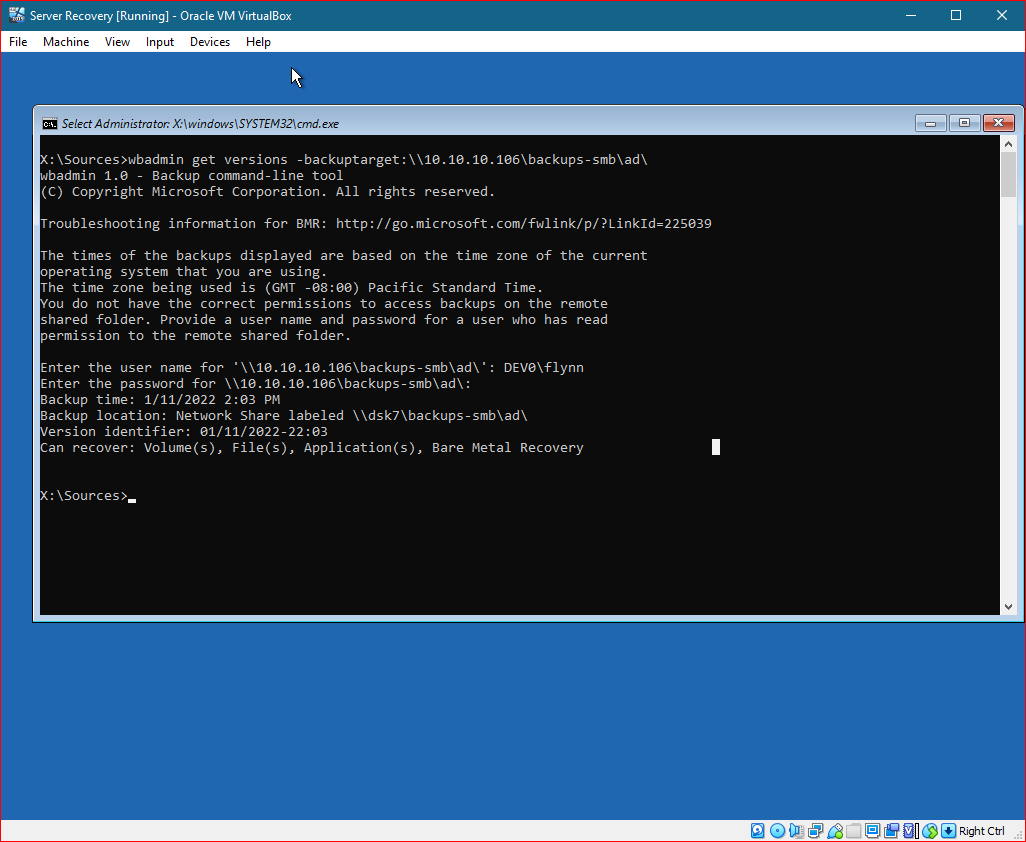
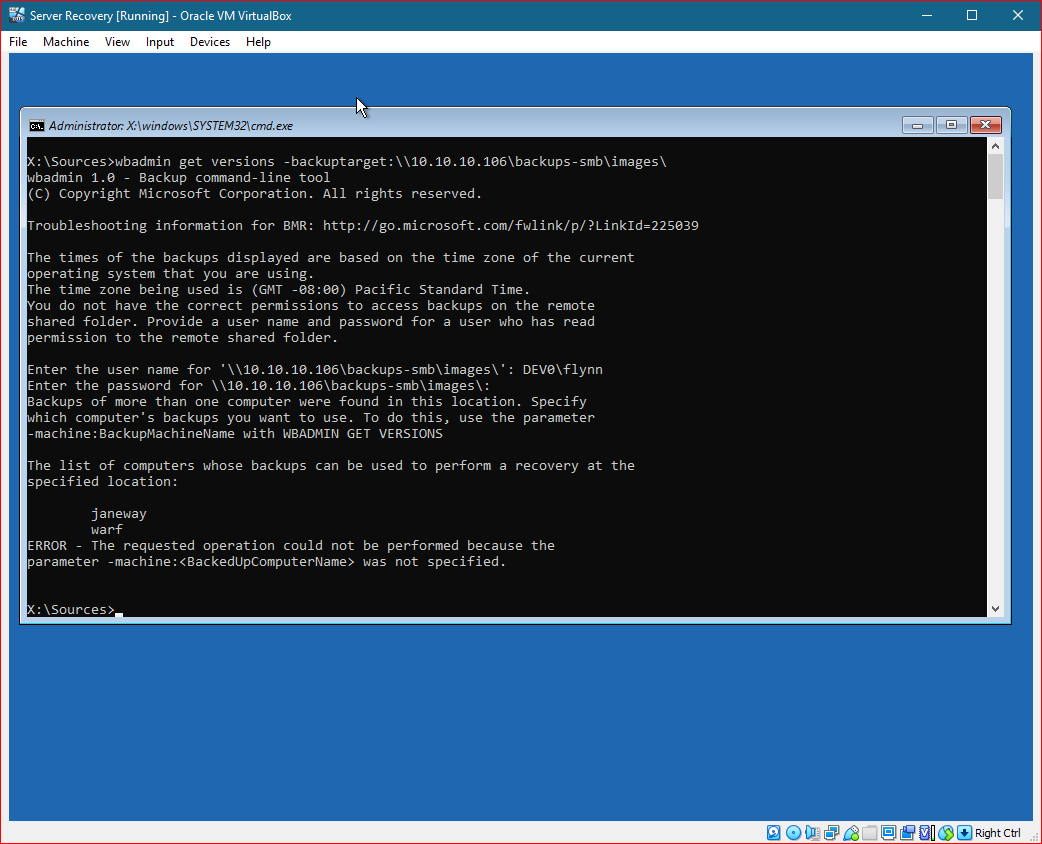
2022-01-13 15:26:44 Changed: 0
Affected files:

Changed region(s): [[0.0, 0.0, 1.0, 1.0], [0.6862, 0.5249, 0.7173, 0.5558]]

diff --git a/_posts/BLOCK-ad-backups-powershell.md b/_posts/BLOCK-ad-backups-powershell.md
@@ -28,34 +28,44 @@ https://gist.github.com/PipeItToDevNull/99e6ccccc772684b66175bc6a987ee7a
 
 #### Using GUI
 1. Boot up your install media and choose "Next"
+
 ![ServerBackupRecovery0.PNG|400](../assets/images/windowsImageRecovery/ServerBackupRecovery0.PNG)
 
 2. Do not choose "Install now", choose "Repair your computer" in the lower left
+
 ![ServerBackupRecovery1.PNG|400](../assets/images/windowsImageRecovery/ServerBackupRecovery1.PNG)
 
 3. Choose "Troubleshoot" then "System Image Recovery"
+
 ![ServerBackupRecovery2.PNG|400](../assets/images/windowsImageRecovery/ServerBackupRecovery2.PNG)
 ![ServerBackupRecovery3.PNG|400](../assets/images/windowsImageRecovery/ServerBackupRecovery3.PNG)
 
 4. On the next screen you will get a notice about having now backups, hit "Cancel" then "Next"
+ 
+> 📝 If you do not get a notice then you likely have backups on a mounted disk. You can attempt to restore them and skip the rest of this document.
+
 ![ServerBackupRecovery4.PNG|400](../assets/images/windowsImageRecovery/ServerBackupRecovery4.PNG)
 ![ServerBackupRecovery5.PNG|400](../assets/images/windowsImageRecovery/ServerBackupRecovery5.PNG)
 
-> 📝 If you do not get a notice then you likely have backups on a mounted disk. You can attempt to restore them and skip the rest of this.
+> 📝 If you do not get a notice then you likely have backups on a mounted disk. You can attempt to restore them and skip the rest of this
 
 5. Assuming we got the prompt in step 4 then we will see a grid with no entries, choose "Advanced"
+
 ![ServerBackupRecovery6.PNG|400](../assets/images/windowsImageRecovery/ServerBackupRecovery6.PNG)
+
 6. Choose "Search for a system image on the network" and hit "yes" to initialize the network.
+
 ![ServerBackupRecovery7.PNG|400](../assets/images/windowsImageRecovery/ServerBackupRecovery7.PNG)
 ![ServerBackupRecovery8.PNG|400](../assets/images/windowsImageRecovery/ServerBackupRecovery8.PNG)
 
 7. You should see a prompt for a network path, the installer has no DNS so we will use the IP of your NAS or Share server and the path to the directory holding the "WindowsImageBackup". 
+ 
+> 📝 The path should not include "WindowsImageBackup", it should be one directory higher and will be the directory on line 17 of our backup script above.
+
 ![ServerBackupRecovery9.PNG|400](../assets/images/windowsImageRecovery/ServerBackupRecovery9.PNG)
 
-> 📝 The path should not include "WindowsImageBackup", it should be one directory higher and will be the directory on line 17 of our backup script above. 
-
 > ❗ From this point on I had errors. You can continue to follow [these docs](https://askme4tech.com/how-restore-windows-image-backup-different-windows-server) if you are lucky enough not to have them.
-* Error below, not a step.
+
 ![ServerBackupRecovery10.PNG|400](../assets/images/windowsImageRecovery/ServerBackupRecovery10.PNG)
 
 #### Using CLI^[https://community.spiceworks.com/topic/2201127-recover-windows-system-image-from-network-error-0x8007001f]
@@ -69,14 +79,27 @@ I used CLI for my test recoveries, which is probably better to test anyway, due 
 > 📝 Assigning a static IP
     > If you need a static IP you can assign one with `netsh interface ip set address "Interface Name" static <ipaddress> <subnet mask> <gateway>`
 
-3. You can check for backups on your share with `wbadmin get versions -backuptarget:\\<server_name>\<share_name>`. You will be prompted for credentials (if required).
+3. You can check for backups on your share with `wbadmin get versions -backuptarget:\\<server_IP>\<share_name>`. You will be prompted for credentials (if required, the username must be in the "DOMAIN\user" format). 
+
+> ❗ There may be no DNS in your install environment, I recommend just using an IP for the server address.
+
+> 📝 If you have more than 1 server backed up to this directory you will be give a list of server names that are present. If you only have one server backed up to this location you will not see this screen and can skip to step 5.
+
 ![ServerBackupRecovery11.PNG|400](../assets/images/windowsImageRecovery/ServerBackupRecovery11.PNG)
+![ServerBackupRecovery11.PNG|400](../assets/images/windowsImageRecovery/ServerBackupRecovery12.PNG)
 
-> 📝 The username here must be in the "DOMAIN\user" format
+4. If you have more than one server returned we need to add `-machine:<server name>` onto our previous command.
 
-> 📝 You will only see a machine name here if your directory contains backups from more than one host. If you do have more than one host and see now names, try to work it out based on date.
+![ServerBackupRecovery11.PNG|400](../assets/images/windowsImageRecovery/ServerBackupRecovery13.PNG)
 
-4. 
+5. Now to do the actual recovery, you will need the "Version identifier:" from your CMD window and we will use the following command, `wbadmin start sysrecovery -machine:<server name> -version:<version> -backuptarget:\\<server_IP>\<share_name> -recreateDisks`
+
+> 📝 If you did not need -machine to get your list of backups you do not need it in the command above either.
+
+> ❗ The -recreateDisks flag destroys all data on your local disks and replaces it with out backup. If you want to do another type of recovery please see the [sysrecovery documentation](https://docs.microsoft.com/en-us/windows-server/administration/windows-commands/wbadmin-start-sysrecovery).
+
+
+
 ## References
 Backup scripts, ideas, and details
 * http://woshub.com/backup-active-directory-domain-controller/
